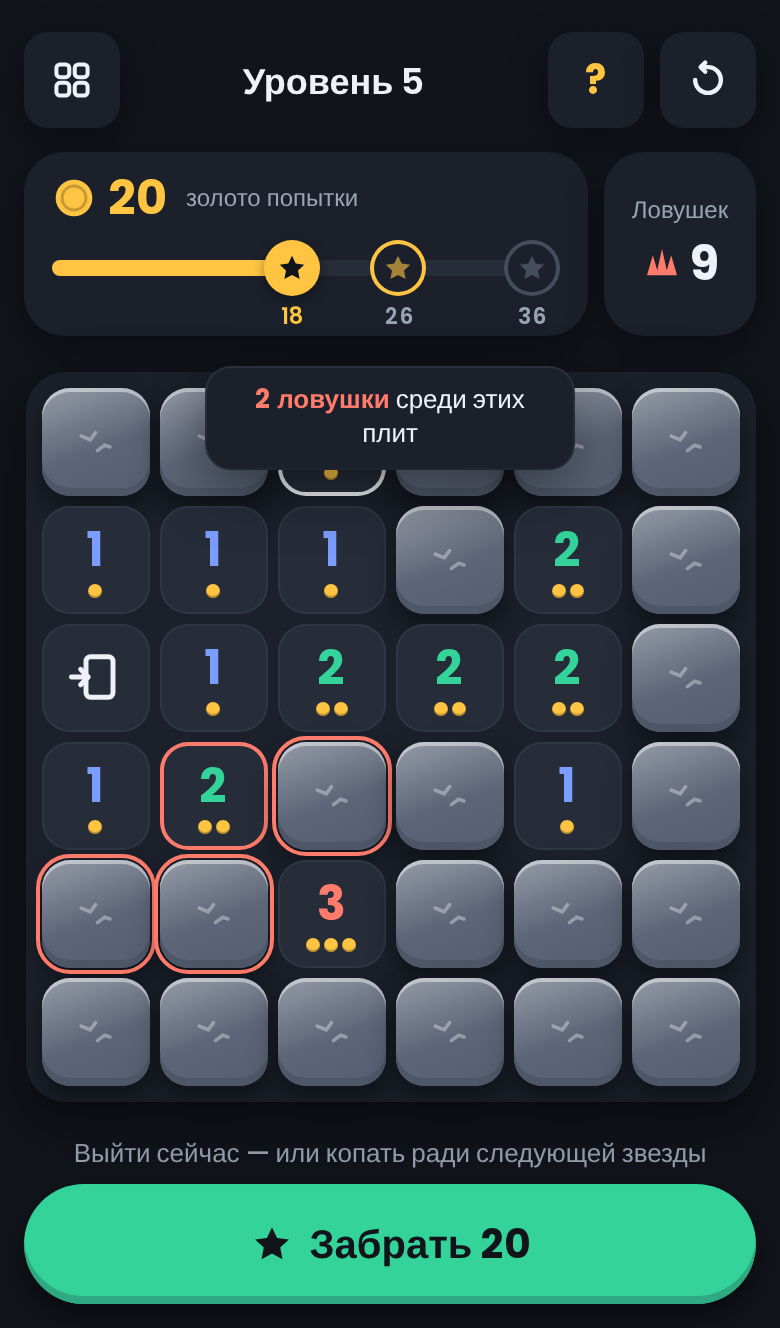
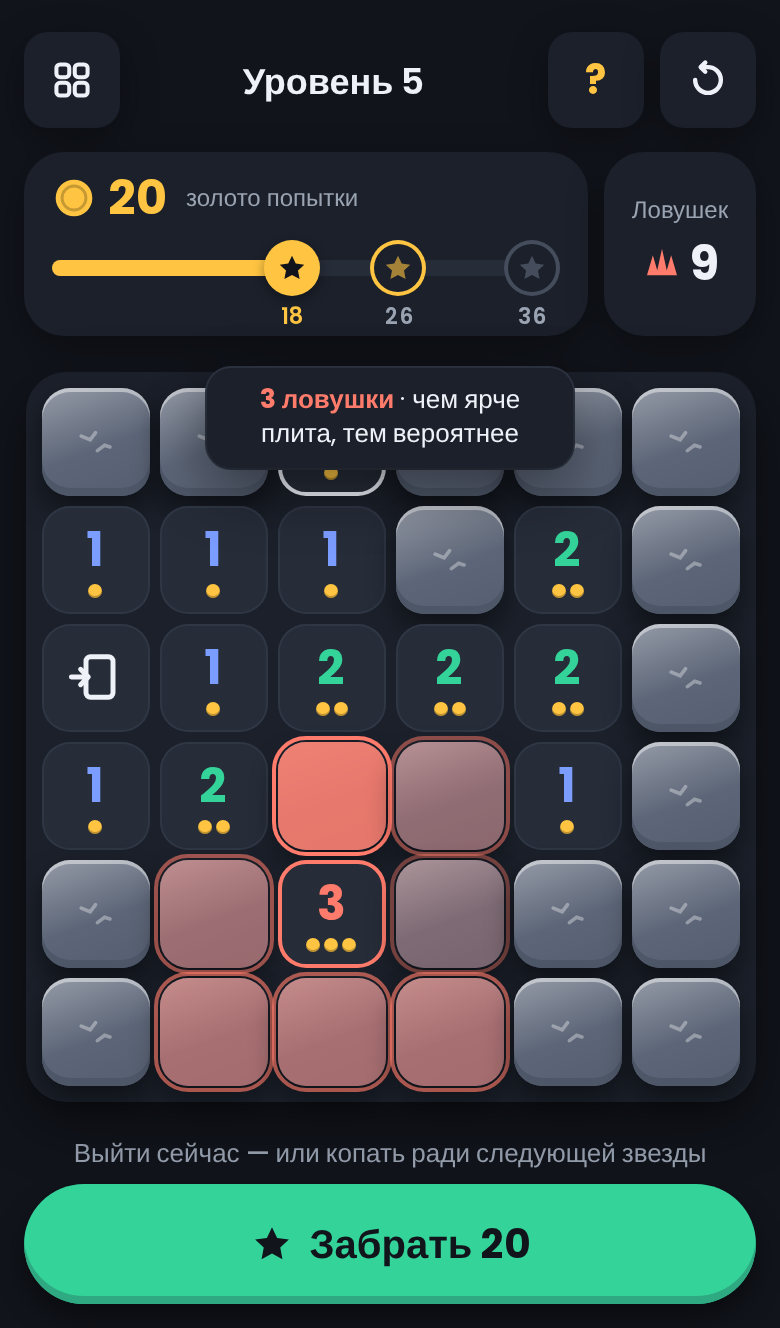
The Dig: удержание числа — подсветка соседей по вероятности ловушки
Держишь открытую плиту с числом — её закрытые соседи заливаются коралловым,
насыщенность = точная вероятность ловушки (перебор по всем числам и общему
числу ловушек). Соседи с вероятностью 0 не подсвечиваются, процентов нет.

src/engine/probability.ts — порт trapProbabilities солвера; тест сверяет его
с солвером на каждом шаге логики. Спека: правило «игра не показывает
вероятность» заменено решением автора, §8 — что это меняет для метрик
(баланс звёзд не трогается: боты и так играли с точными вероятностями).

31 юнит-тест и 8 e2e зелёные.

Claude-Session: https://claude.ai/code/session_01KWr27tZBqT1rqwvqWW7Bph

diff --git a/apps/excavation/src/engine/probability.ts b/apps/excavation/src/engine/probability.ts
@@ -1,0 +1,90 @@
+import { neighbours } from './digEngine.ts';
+import type { GameState } from './types.ts';
+
+// Точная вероятность ловушки под каждой закрытой плитой при известных числах и
+// общем числе ловушек (§4, «Удержание», решение автора 2026-09-27). Порт
+// `trapProbabilities` из tools/excavation-solver.mjs без изменений —
+// tests/engine.test.ts сверяет результаты. Перебор назначений ловушек на
+// «границу» (закрытые плиты рядом с открытыми числами), каждое назначение
+// весит C(остальные закрытые, ловушек − на границе).
+
+function binom(n: number, k: number): number {
+  if (k < 0 || k > n) return 0;
+  let r = 1;
+  for (let i = 1; i <= k; i += 1) r = (r * (n - k + i)) / i;
+  return r;
+}
+
+/** Индекс закрытой плиты → вероятность ловушки 0..1. */
+export function trapProbabilities(s: GameState): Map<number, number> {
+  const { rows, cols, clue, open } = s;
+  const traps = s.level.traps;
+  const n = rows * cols;
+  const closed: number[] = [];
+  for (let i = 0; i < n; i += 1) if (!open[i]) closed.push(i);
+
+  const isFrontier = new Array<boolean>(n).fill(false);
+  const constraints: Array<{ cells: number[]; need: number }> = [];
+  for (let i = 0; i < n; i += 1) {
+    if (!open[i]) continue;
+    const cells = neighbours(rows, cols, i).filter((j) => !open[j]);
+    if (cells.length === 0) continue;
+    constraints.push({ cells, need: clue[i] ?? 0 });
+    for (const j of cells) isFrontier[j] = true;
+  }
+  const frontier = closed.filter((i) => isFrontier[i]);
+  const others = closed.length - frontier.length;
+  const idx = new Map(frontier.map((c, k) => [c, k]));
+  const cons = constraints.map((c) => ({ cells: c.cells.map((j) => idx.get(j) ?? -1), need: c.need }));
+  const byCell: number[][] = frontier.map(() => []);
+  cons.forEach((c, ci) => c.cells.forEach((k) => byCell[k]?.push(ci)));
+
+  const assign = new Array<number>(frontier.length).fill(0);
+  const placedIn = cons.map(() => 0);
+  const openIn = cons.map((c) => c.cells.length);
+  const trapWeight = new Array<number>(frontier.length).fill(0);
+  let total = 0;
+  let otherTrapWeight = 0;
+
+  const rec = (k: number, f: number): void => {
+    if (f > traps) return;
+    if (k === frontier.length) {
+      const w = binom(others, traps - f);
+      if (!w) return;
+      total += w;
+      for (let q = 0; q < frontier.length; q += 1) if (assign[q]) trapWeight[q] = (trapWeight[q] ?? 0) + w;
+      if (others) otherTrapWeight += (w * (traps - f)) / others;
+      return;
+    }
+    const mine = byCell[k] ?? [];
+    for (const v of [0, 1]) {
+      let ok = true;
+      for (const ci of mine) {
+        const need = cons[ci]?.need ?? 0;
+        const p = (placedIn[ci] ?? 0) + v;
+        const left = (openIn[ci] ?? 0) - 1;
+        if (p > need || p + left < need) ok = false;
+      }
+      if (!ok) continue;
+      assign[k] = v;
+      for (const ci of mine) {
+        placedIn[ci] = (placedIn[ci] ?? 0) + v;
+        openIn[ci] = (openIn[ci] ?? 0) - 1;
+      }
+      rec(k + 1, f + v);
+      for (const ci of mine) {
+        placedIn[ci] = (placedIn[ci] ?? 0) - v;
+        openIn[ci] = (openIn[ci] ?? 0) + 1;
+      }
+    }
+    assign[k] = 0;
+  };
+  rec(0, 0);
+
+  const p = new Map<number, number>();
+  if (total === 0) return p;
+  frontier.forEach((c, k) => p.set(c, (trapWeight[k] ?? 0) / total));
+  const po = others ? otherTrapWeight / total : 0;
+  for (const c of closed) if (!isFrontier[c]) p.set(c, po);
+  return p;
+}

diff --git a/apps/excavation/src/ui/game.ts b/apps/excavation/src/ui/game.ts
@@ -1,4 +1,5 @@
 import { canTake, createState, goldLeft, starsFor, take, takeBlock, tap } from '../engine/digEngine.ts';
+import { trapProbabilities } from '../engine/probability.ts';
 import type { GameState, Stars } from '../engine/types.ts';
 import { getLevel, LEVEL_COUNT } from '../levels/levels.ts';
 import { reducedMotion, vibrate, wait } from './feedback.ts';
@@ -304,11 +305,13 @@ export function gameScreen(levelNumber: number, go: Go): Screen {
     return out;
   }
 
-  // ---------- удержание открытой плиты: подсветка соседей (§4, §7, решение автора 2026-09-27) ----------
-  // Подсвечивает только закрытые соседние плиты — тот же круг, что число уже
-  // называет («N ловушек среди этих плит»). Не то, где ловушка точно, и не
-  // вероятность: геометрия, которую игрок и так видит по клетке рядом.
+  // ---------- удержание открытой плиты: тепловая подсветка соседей (§4, §7) ----------
+  // Решение автора 2026-09-27: закрытые соседи числа подсвечиваются тем
+  // насыщеннее, чем выше точная вероятность ловушки под ними (перебор по всем
+  // открытым числам и общему числу ловушек, engine/probability.ts). Соседи с
+  // вероятностью 0 не подсвечиваются.
   let holdTimer: ReturnType<typeof setTimeout> | null = null;
+  let holdCells: number[] = [];
   let holdIndex = -1;
 
   function clearHold(): void {
@@ -317,11 +320,15 @@ export function gameScreen(levelNumber: number, go: Go): Screen {
       holdTimer = null;
     }
     if (holdIndex >= 0) {
-      neighboursOf(holdIndex)
-        .filter((j) => !state.open[j])
-        .forEach((j) => cellEl(j).classList.remove('tip-ring'));
+      for (const j of holdCells) {
+        const box = cellEl(j);
+        box.classList.remove('heat');
+        box.style.removeProperty('--heat');
+        delete box.dataset['heat'];
+      }
       cellEl(holdIndex).classList.remove('peek-source');
       tipEl.hidden = true;
+      holdCells = [];
       holdIndex = -1;
     }
   }
@@ -332,10 +339,17 @@ export function gameScreen(levelNumber: number, go: Go): Screen {
       holdTimer = null;
       holdIndex = i;
       const n = state.clue[i] ?? 0;
-      const closed = neighboursOf(i).filter((j) => !state.open[j]);
-      closed.forEach((j) => cellEl(j).classList.add('tip-ring'));
+      const p = trapProbabilities(state);
+      holdCells = neighboursOf(i).filter((j) => !state.open[j] && (p.get(j) ?? 0) > 1e-9);
+      for (const j of holdCells) {
+        const heat = p.get(j) ?? 0;
+        const box = cellEl(j);
+        box.classList.add('heat');
+        box.style.setProperty('--heat', heat.toFixed(3));
+        box.dataset['heat'] = heat.toFixed(2);
+      }
       cellEl(i).classList.add('peek-source');
-      tipEl.innerHTML = `<b>${String(n)} ${plural(n, 'ловушка', 'ловушки', 'ловушек')}</b> среди этих плит`;
+      tipEl.innerHTML = `<b>${String(n)} ${plural(n, 'ловушка', 'ловушки', 'ловушек')}</b> · чем ярче плита, тем вероятнее`;
       tipEl.hidden = false;
       vibrate(10);
       log({ type: 'peek', level: levelNumber, row: Math.floor(i / level.cols), col: i % level.cols });

diff --git a/apps/excavation/tests/levels.test.ts b/apps/excavation/tests/levels.test.ts
@@ -11,7 +11,9 @@ import {
   safeOnly,
   safeSequence,
   toMap,
+  trapProbabilities as solverProbabilities,
 } from '../../../tools/excavation-solver.mjs';
+import { trapProbabilities } from '../src/engine/probability.ts';
 import { createState, tap } from '../src/engine/digEngine.ts';
 import { LEVELS } from '../src/levels/levels.ts';
 import type { GameState } from '../src/engine/types.ts';
@@ -81,6 +83,23 @@ describe('уровни (§6)', () => {
       }
     });
   }
+
+  // Подсветка при удержании (§4) считает вероятности портом солвера — сверяем.
+  it('вероятности ловушки в игре совпадают с солвером на каждом шаге логики', () => {
+    for (const level of LEVELS.slice(1)) {
+      for (const [n, layout] of level.layouts.slice(0, 5).entries()) {
+        const room = roomFromMap(layout.map, level.traps);
+        let s = createState(level, n);
+        for (const i of safeSequence(room)) {
+          const mine = trapProbabilities(s);
+          const ref = solverProbabilities(room, s.open);
+          expect(mine.size).toBe(ref.size);
+          for (const [c, v] of ref) expect(mine.get(c) ?? -1).toBeCloseTo(v, 9);
+          s = tap(s, ...at(s, i))?.state as GameState;
+        }
+      }
+    }
+  });
 
   // Закрытый вопрос backlog-версии (§6, §8): логика против случайного тапа.
   it('логический бот проходит уровни 2–5 всегда, случайный — реже 25%', () => {

diff --git a/apps/excavation/src/styles.css b/apps/excavation/src/styles.css
@@ -232,6 +232,11 @@ svg { display: block; }
 .cell.trap-hit { background: none; box-shadow: none; }
 /* Обучающая подсветка соседей (§7). */
 .cell.tip-ring .stone { outline: 2.5px solid var(--ui-coral); outline-offset: 1px; }
+/* Тепловая подсветка при удержании (§4, §7): --heat 0..1 — вероятность
+   ловушки. Коралловая заливка и обводка тем гуще, чем выше вероятность. */
+.cell.heat .stone { box-shadow: var(--ui-shadow-tile), inset 0 0 0 999px color-mix(in srgb, var(--ui-coral) calc(15% + var(--heat) * 70%), transparent);
+  outline: 2.5px solid color-mix(in srgb, var(--ui-coral) calc(35% + var(--heat) * 65%), transparent); outline-offset: 1px; }
+.cell.heat .stone svg { opacity: 0; }
 /* Плита, которую держат (§4, §7): лёгкое кольцо вокруг числа, пока идёт подсветка. */
 .cell.peek-source { box-shadow: inset 0 0 0 2px var(--ui-coral); }
 .clue-tip { position: absolute; top: 4px; left: 50%; transform: translateX(-50%); z-index: 5; max-width: calc(100% - 16px); padding: 8px 14px; border-radius: var(--ui-radius-medium); background: var(--ui-surface); box-shadow: var(--ui-shadow-card), 0 0 0 1px var(--ui-border); font-size: 13px; line-height: 1.3; text-align: center; pointer-events: none; animation: fade-in 200ms ease both; }

diff --git a/UI Design/prototypes/excavation/README.md b/UI Design/prototypes/excavation/README.md
@@ -23,8 +23,9 @@
   `headless_shell --window-size=390,664 --force-device-scale-factor=2 --screenshot=game-screen.png mockup.html`,
   `headless_shell --window-size=390,430 --force-device-scale-factor=2 --screenshot=tiles.png tiles.html`.
 - `hold-peek.png` — скриншот из собранного `apps/excavation` (не пересобирается
-  headless_shell'ом из статического мокапа): удержание открытой плиты «2»
-  подсвечивает трёх закрытых соседей и плашку «2 ловушки среди этих плит».
+  headless_shell'ом из статического мокапа): уровень 5, удержание «3» —
+  соседи залиты коралловым по вероятности ловушки (1,00 — ярко, 0,44 —
+  средне, 0,08 — едва).
 
 | Объект | Цвет | Второй канал |
 |---|---|---|
@@ -34,7 +35,7 @@
 | Золото плиты | монетки `--ui-yellow` под цифрой, столько же штук | количество |
 | Вход | `--ui-text` | квадратная дверь, стрелка входит в неё справа |
 | Найденный выход | рамка и дверь `--ui-text`, цифра в углу | та же квадратная дверь, стрелка выходит из неё влево (зеркало входа) |
-| Удержание плиты с числом | обводка `--ui-coral` на закрытых соседях | плашка «N ловушек среди этих плит» |
+| Удержание плиты с числом | заливка и обводка `--ui-coral`, насыщенность = вероятность ловушки | трещины на камне прячутся; плашка «чем ярче плита, тем вероятнее» |
 | Ловушка | тайл `--ui-coral` (сработала) или значок на плоской (раскрыта) | значок шипов |
 | Звезда на шкале | `--ui-yellow` / `--ui-disabled` | заливка или рамка, число порога |
 
